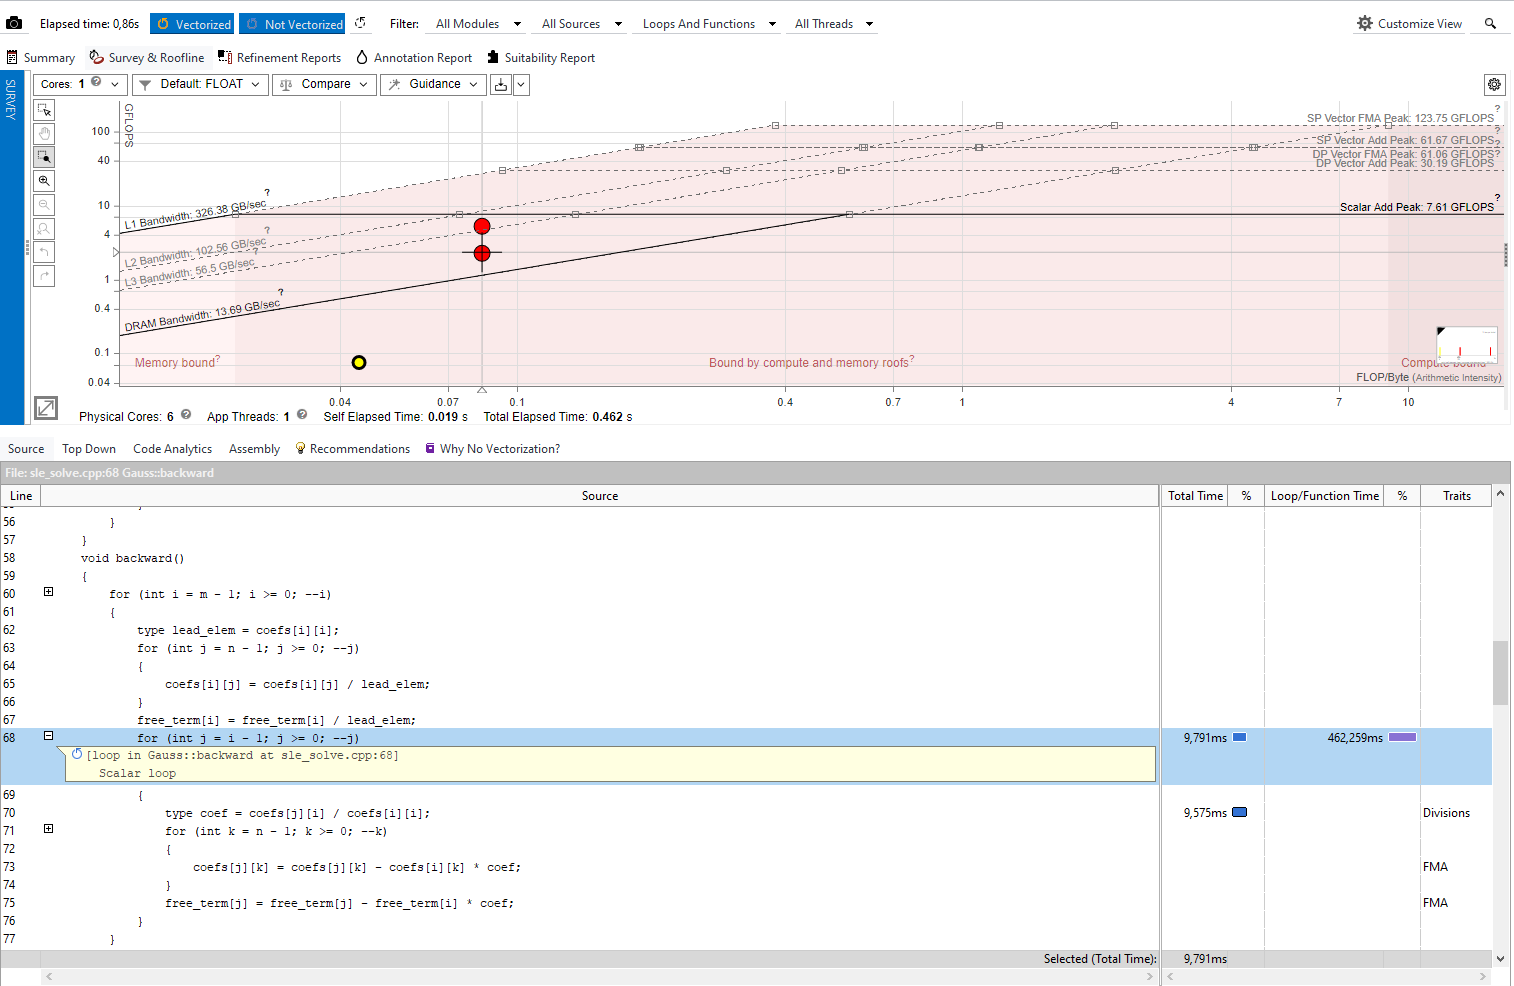
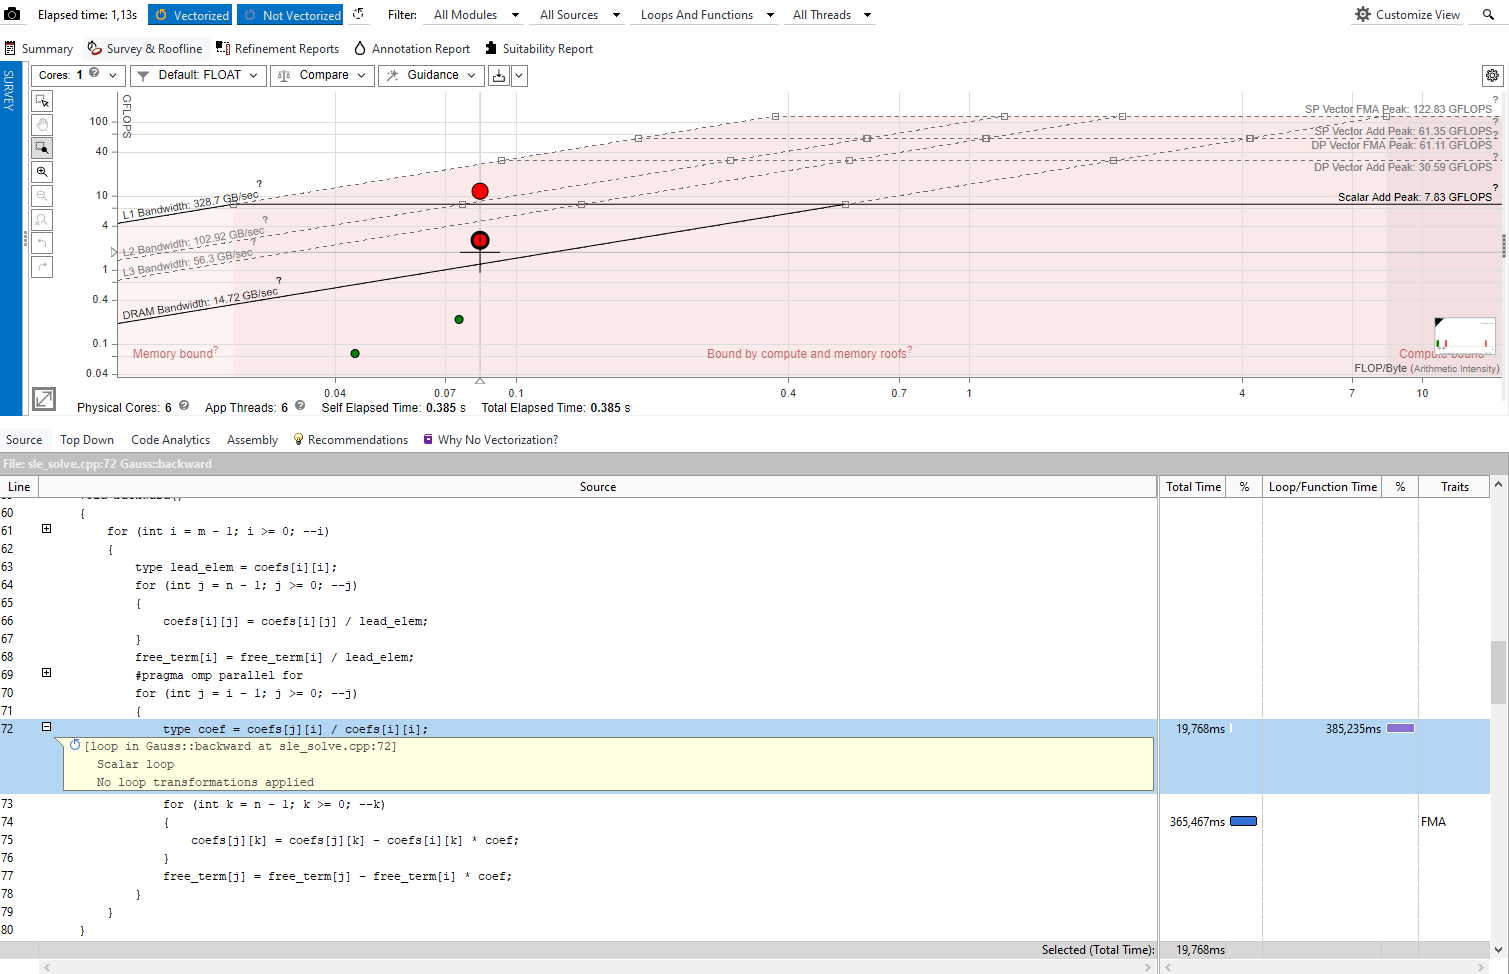
1st result

diff --git a/LABS/SR2/sle_solve.cpp b/LABS/SR2/sle_solve.cpp
@@ -66,6 +66,7 @@ public:
                 coefs[i][j] = coefs[i][j] / lead_elem;
             }
             free_term[i] = free_term[i] / lead_elem;
+            #pragma omp parallel for
             for (int j = i - 1; j >= 0; --j)
             {
                 type coef = coefs[j][i] / coefs[i][i];
